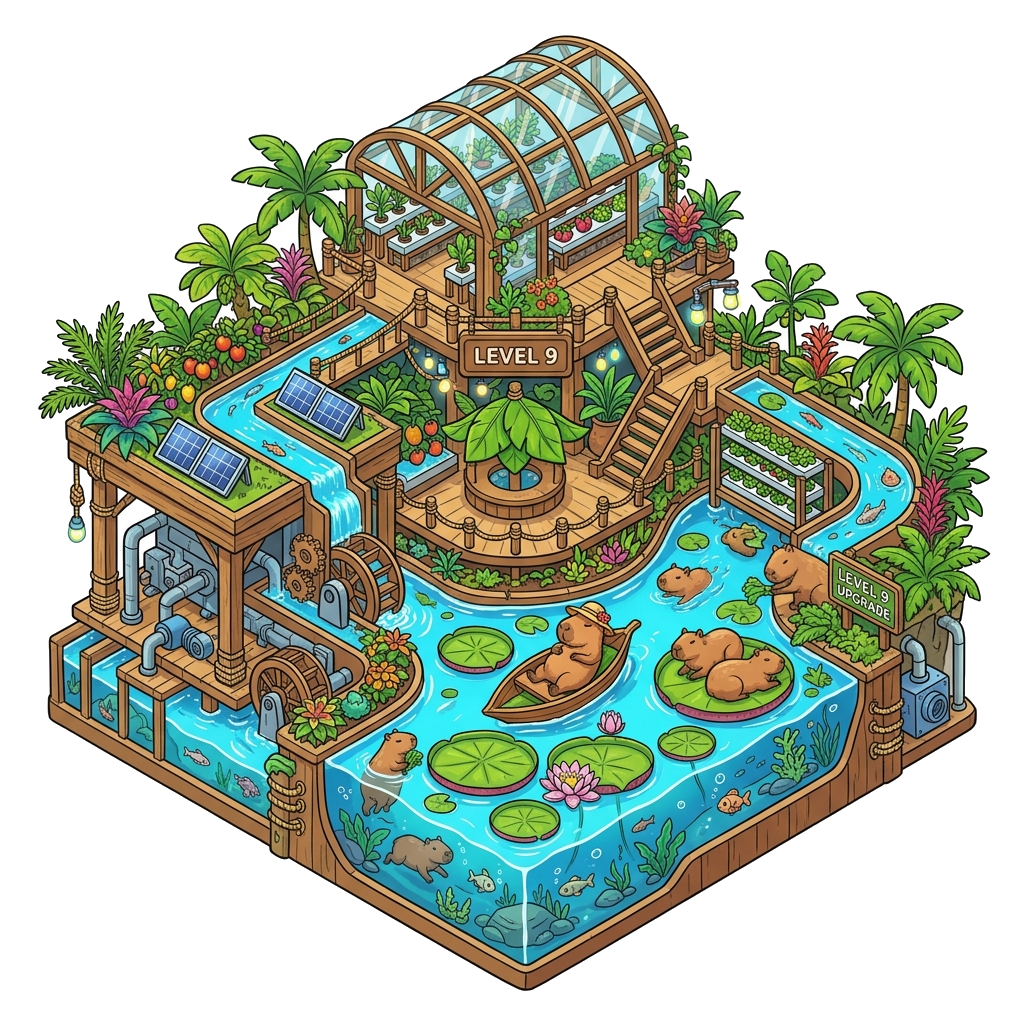
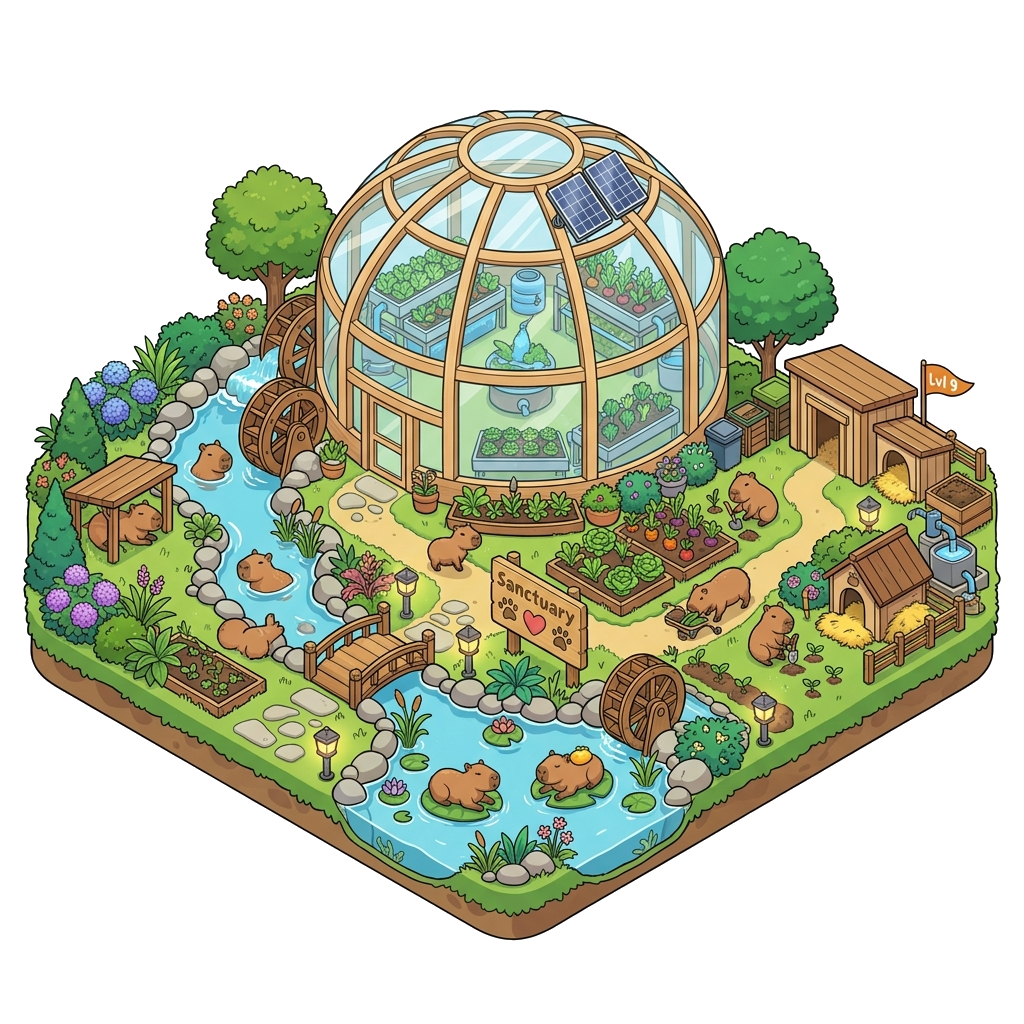
feat: integrate tower levels 4-10 and laboratory levels 7-10 sprites, update cache to capivara-v78, and update documentation

diff --git a/index.html b/index.html
@@ -557,11 +557,11 @@
                     <div id="villageVisualLayers" class="absolute inset-0 pointer-events-none z-10">
                         <img id="visual-townHall" src="bld_townHall_lvl1.png" class="absolute pointer-events-auto transition-all hover:scale-105 duration-300 cursor-pointer origin-bottom select-none" style="left: 48%; top: 36%; width: 24%; transform: translate(-50%, -50%);" onclick="focusBuilding('townHall')">
                         
-                        <img id="visual-tower" src="bld_scaffolding.png" class="absolute pointer-events-auto transition-all hover:scale-105 duration-300 cursor-pointer origin-bottom select-none" style="left: 87%; top: 29%; width: 15%; transform: translate(-50%, -50%);" onclick="focusBuilding('tower')">
+                        <img id="visual-tower" src="bld_scaffolding.png" class="absolute pointer-events-auto transition-all hover:scale-105 duration-300 cursor-pointer origin-bottom select-none" style="left: 87%; top: 24%; width: 15%; transform: translate(-50%, -50%);" onclick="focusBuilding('tower')">
                         
                         <img id="visual-farm" src="bld_scaffolding.png" class="absolute pointer-events-auto transition-all hover:scale-105 duration-300 cursor-pointer origin-bottom select-none" style="left: 15%; top: 49%; width: 22%; transform: translate(-50%, -50%);" onclick="focusBuilding('farm')">
                         
-                        <img id="visual-lab" src="bld_scaffolding.png" class="absolute pointer-events-auto transition-all hover:scale-105 duration-300 cursor-pointer origin-bottom select-none" style="left: 83%; top: 62%; width: 20%; transform: translate(-50%, -50%);" onclick="focusBuilding('lab')">
+                        <img id="visual-lab" src="bld_scaffolding.png" class="absolute pointer-events-auto transition-all hover:scale-105 duration-300 cursor-pointer origin-bottom select-none" style="left: 83%; top: 57%; width: 20%; transform: translate(-50%, -50%);" onclick="focusBuilding('lab')">
                         
                         <img id="visual-docks" src="bld_scaffolding.png" class="absolute pointer-events-auto transition-all hover:scale-105 duration-300 cursor-pointer origin-bottom select-none" style="left: 43%; top: 81%; width: 22%; transform: translate(-50%, -50%);" onclick="focusBuilding('docks')">
                     </div>

diff --git a/app.js b/app.js
@@ -369,14 +369,9 @@ async function loginWithGoogle() {
 let animals = JSON.parse(localStorage.getItem('capy_vPlay')) || [];
 let guardianXP = parseInt(localStorage.getItem('capy_xpPlay')) || 0;
 let seedCoins = parseInt(localStorage.getItem('capy_seeds')) || 0;
-if (currentUser) {
-    const lowerName = currentUser.name.toLowerCase();
-    if (lowerName === 'teste' || lowerName === 'test' || lowerName === 'tesrez') {
-        if (seedCoins < 10000) {
-            seedCoins = 10000;
-            localStorage.setItem('capy_seeds', seedCoins);
-        }
-    }
+if (seedCoins < 500000) {
+    seedCoins = 500000;
+    localStorage.setItem('capy_seeds', seedCoins);
 }
 let ownedAccessories = JSON.parse(localStorage.getItem('capy_owned_acc')) || [];
 let equippedAccessories = JSON.parse(localStorage.getItem('capy_equipped_slots')) || { head: null, eyes: null, body: null, hand: null, feet: null };
@@ -2397,8 +2392,8 @@ function renderVillage() {
                     townHall: 10,
                     farm: 10,
                     docks: 10,
-                    lab: 6,
-                    tower: 3
+                    lab: 10,
+                    tower: 10
                 };
                 let maxSpriteLvl = maxAvailableLvl[key] || 3;
                 let spriteLvl = Math.min(maxSpriteLvl, b.level);

diff --git a/service-worker.js b/service-worker.js
@@ -1,4 +1,4 @@
-const CACHE_NAME = 'capivara-v72';
+const CACHE_NAME = 'capivara-v78';
 const ASSETS = [
   './',
   './index.html',
@@ -127,9 +127,20 @@ const ASSETS = [
   './bld_lab_lvl4.png',
   './bld_lab_lvl5.png',
   './bld_lab_lvl6.png',
+  './bld_lab_lvl7.png',
+  './bld_lab_lvl8.png',
+  './bld_lab_lvl9.png',
+  './bld_lab_lvl10.png',
   './bld_tower_lvl1.png',
   './bld_tower_lvl2.png',
   './bld_tower_lvl3.png',
+  './bld_tower_lvl4.png',
+  './bld_tower_lvl5.png',
+  './bld_tower_lvl6.png',
+  './bld_tower_lvl7.png',
+  './bld_tower_lvl8.png',
+  './bld_tower_lvl9.png',
+  './bld_tower_lvl10.png',
   './village_stream.ogg',
   './village_birds.ogg'
 ];

diff --git a/style.css b/style.css
@@ -1771,7 +1771,7 @@ body.night-mode .text-on-white {
     body.on-vila-view #villageWoodPanel {
         position: fixed !important;
         left: 86.5% !important;
-        top: 78% !important;
+        top: 83% !important;
         bottom: auto !important;
         right: auto !important;
         transform: translate(-50%, -50%) !important;

diff --git a/READER.md b/READER.md
@@ -43,7 +43,7 @@ O projeto está organizado no formato SPA (Single Page Application) estático, c
     *   `curioData`: Frases rápidas para curiosidades básicas de descobertas.
     *   `premiumData`: Dicionário completo de fichas zoológicas detalhadas baseadas na Wikipédia (Dieta, Habitat, Família, Espécie, Papel Ecológico, Conservação e Dicas de Segurança).
     *   `endlessTriviaBank`: Perguntas e alternativas para o quiz infinito.
-*   **`service-worker.js`**: Gerenciador de cache offline PWA (versão `capivara-v5`).
+*   **`service-worker.js`**: Gerenciador de cache offline PWA (versão `capivara-v78`).
 *   **`manifest.json`**: Manifesto web para instalação do app na tela inicial do celular como um aplicativo nativo.
 *   **`privacy.html`**: Termos de privacidade para leitura obrigatória dos pais.
 
@@ -98,7 +98,7 @@ A Eco-Vila conta com um plano de fundo dinâmico animado (`cenario 1.mp4`) no lu
 *   **Contexto de Empilhamento e z-index Negativo**:
     Para evitar que o vídeo acelerado por hardware cubra os elementos da vila, a imagem de fallback estática utiliza `z-index: -2` e o contêiner de vídeo utiliza `z-index: -1`. Assim, todos os elementos e contêineres de jogo (como prédios em `z-10` e capivaras em `z-[12]`) aparecem por cima da animação.
 *   **Bypass de Range Requests no Service Worker**:
-    Navegadores como Safari (iOS/macOS) e Chrome requerem range requests (HTTP 206 Partial Content) para renderizar mídias HTML5. Para evitar falhas no carregamento de áudios/vídeos a partir do cache do Service Worker, configuramos o `service-worker.js` para não interceptar requisições com cabeçalho `Range` ou com extensões `.mp4` e `.ogg`.
+    Navegadores como Safari (iOS/macOS) e Chrome requerem range requests (HTTP 206 Partial Content) para renderizar mídias HTML5. Para evitar falhas no carregamento de áudios/vídeos a partir do cache do Service Worker, configuramos o `service-worker.js` para não interceptar requisições com cabeçalho `Range` ou com extensões `.mp4`, `.ogg` e `.mp3`.
 *   **Indicadores de Produção Flutuantes (Floating Gain Indicators)**:
     A cada 5 segundos, se a produção de sementes da vila for maior que zero e o jogador estiver visualizando a aba da Vila (`vilaView`), números dourados com o ícone da moeda de semente (`seed_coin.png`) sobem de forma animada (`@keyframes floatUpFade`) sobre a Horta de Capim (`farm`) e as Docas de Pesca (`docks`), indicando a produção passiva em tempo real. Os valores mostrados correspondem à taxa exata de contribuição de cada prédio por hora de acordo com seu nível e o bônus multiplicador do Centro da Vila.
 
@@ -200,3 +200,17 @@ Implementamos suporte a edições retroativas no Diário de Campo para que o exp
 *   **Lápis de Edição ✏**: Cada cartão no grid de descobertas possui um botão com ícone de lápis. Clicar nele carrega os dados originais no modal de captura, abrindo-o diretamente na seção de formulário e contornando a câmera e scanner.
 *   **Controle Dinâmico de Ação**: O modal altera o texto do botão principal para **"ATUALIZAR DIÁRIO! 💾"** e adota o estilo âmbar de edição. O fluxo de salvamento aciona a função `updateDiscovery` que revalida a categoria biológica do animal, atualiza os dados em `localStorage` e envia uma requisição `PUT` para a API (caso autenticado).
 *   **Diário de Experiência**: Inclui o campo **"Conte como foi o dia que você encontrou o animal"**, estimulando relatos ricos e pessoais. O diário renderiza essas histórias em caixas personalizadas estilizadas como folhas de caderno, aproximando o jogo da vivência real de um pesquisador.
+
+---
+
+## 🏗 11. Sistema de Evolução de Prédios e Assets de Nível (Lvl 1-10)
+
+Todas as 5 construções da Eco-Vila possuem ilustrações de evolução customizadas do nível 1 ao nível 10, no mesmo estilo isométrico 2D cartoon integrado com as capivaras:
+
+*   **Centro da Vila (`townHall`)**: Níveis 1 a 10 (`bld_townHall_lvl1.png` a `bld_townHall_lvl10.png`).
+*   **Horta de Capim (`farm`)**: Níveis 1 a 10 (`bld_farm_lvl1.png` a `bld_farm_lvl10.png`).
+*   **Doca de Pesca (`docks`)**: Níveis 1 a 10 (`bld_docks_lvl1.png` a `bld_docks_lvl10.png`).
+*   **Laboratório Ecológico (`lab`)**: Níveis 1 a 10 (`bld_lab_lvl1.png` a `bld_lab_lvl10.png`).
+*   **Torre de Vigia (`tower`)**: Níveis 1 a 10 (`bld_tower_lvl1.png` a `bld_tower_lvl10.png`).
+
+As imagens geradas foram processadas para remover o fundo branco original, tornando o fundo transparente (`RGBA`) para integração visual direta sobre o vídeo dinâmico da vila. A lógica de exibição está mapeada em `app.js` através da constante `maxAvailableLvl`, garantindo o correto carregamento do sprite correspondente ao nível de evolução atual do prédio.
